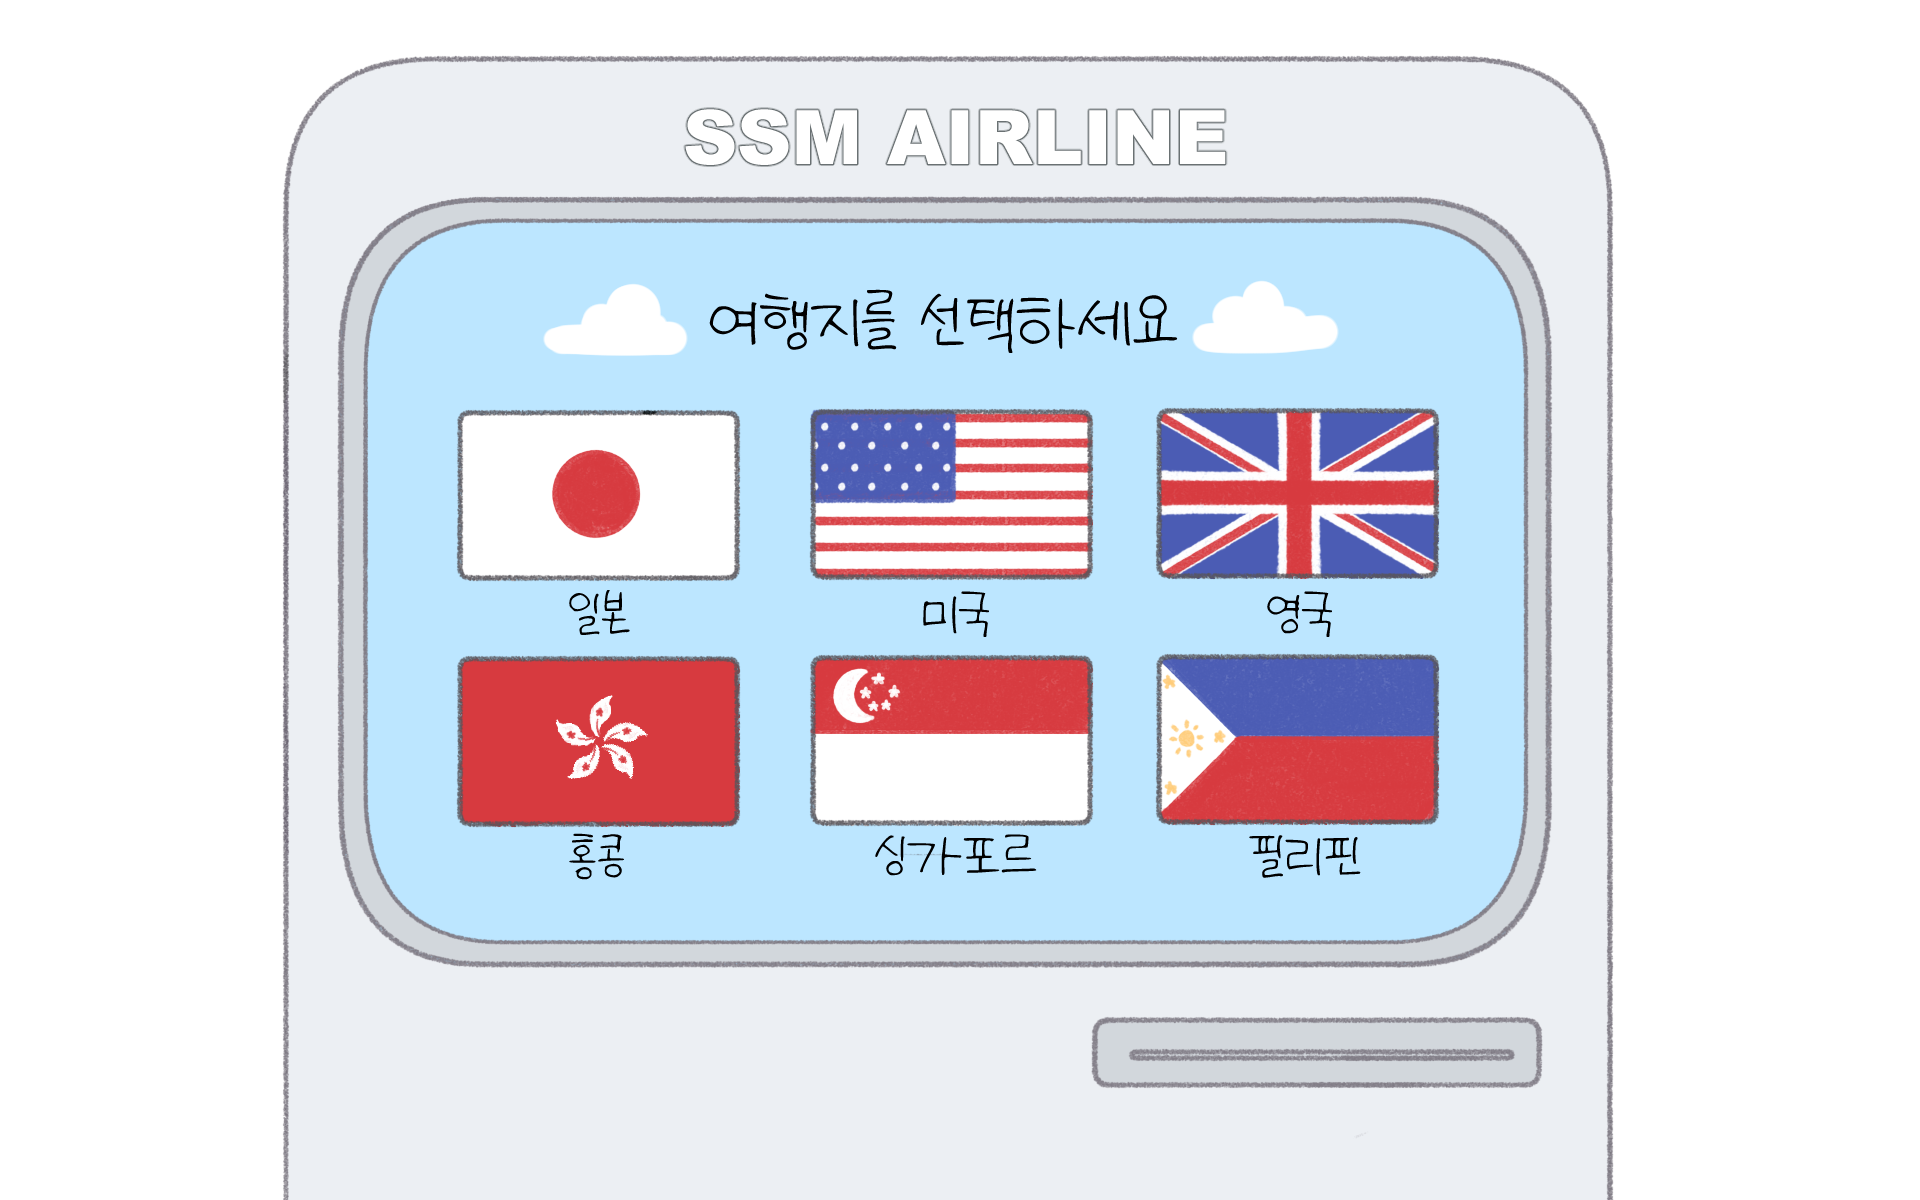
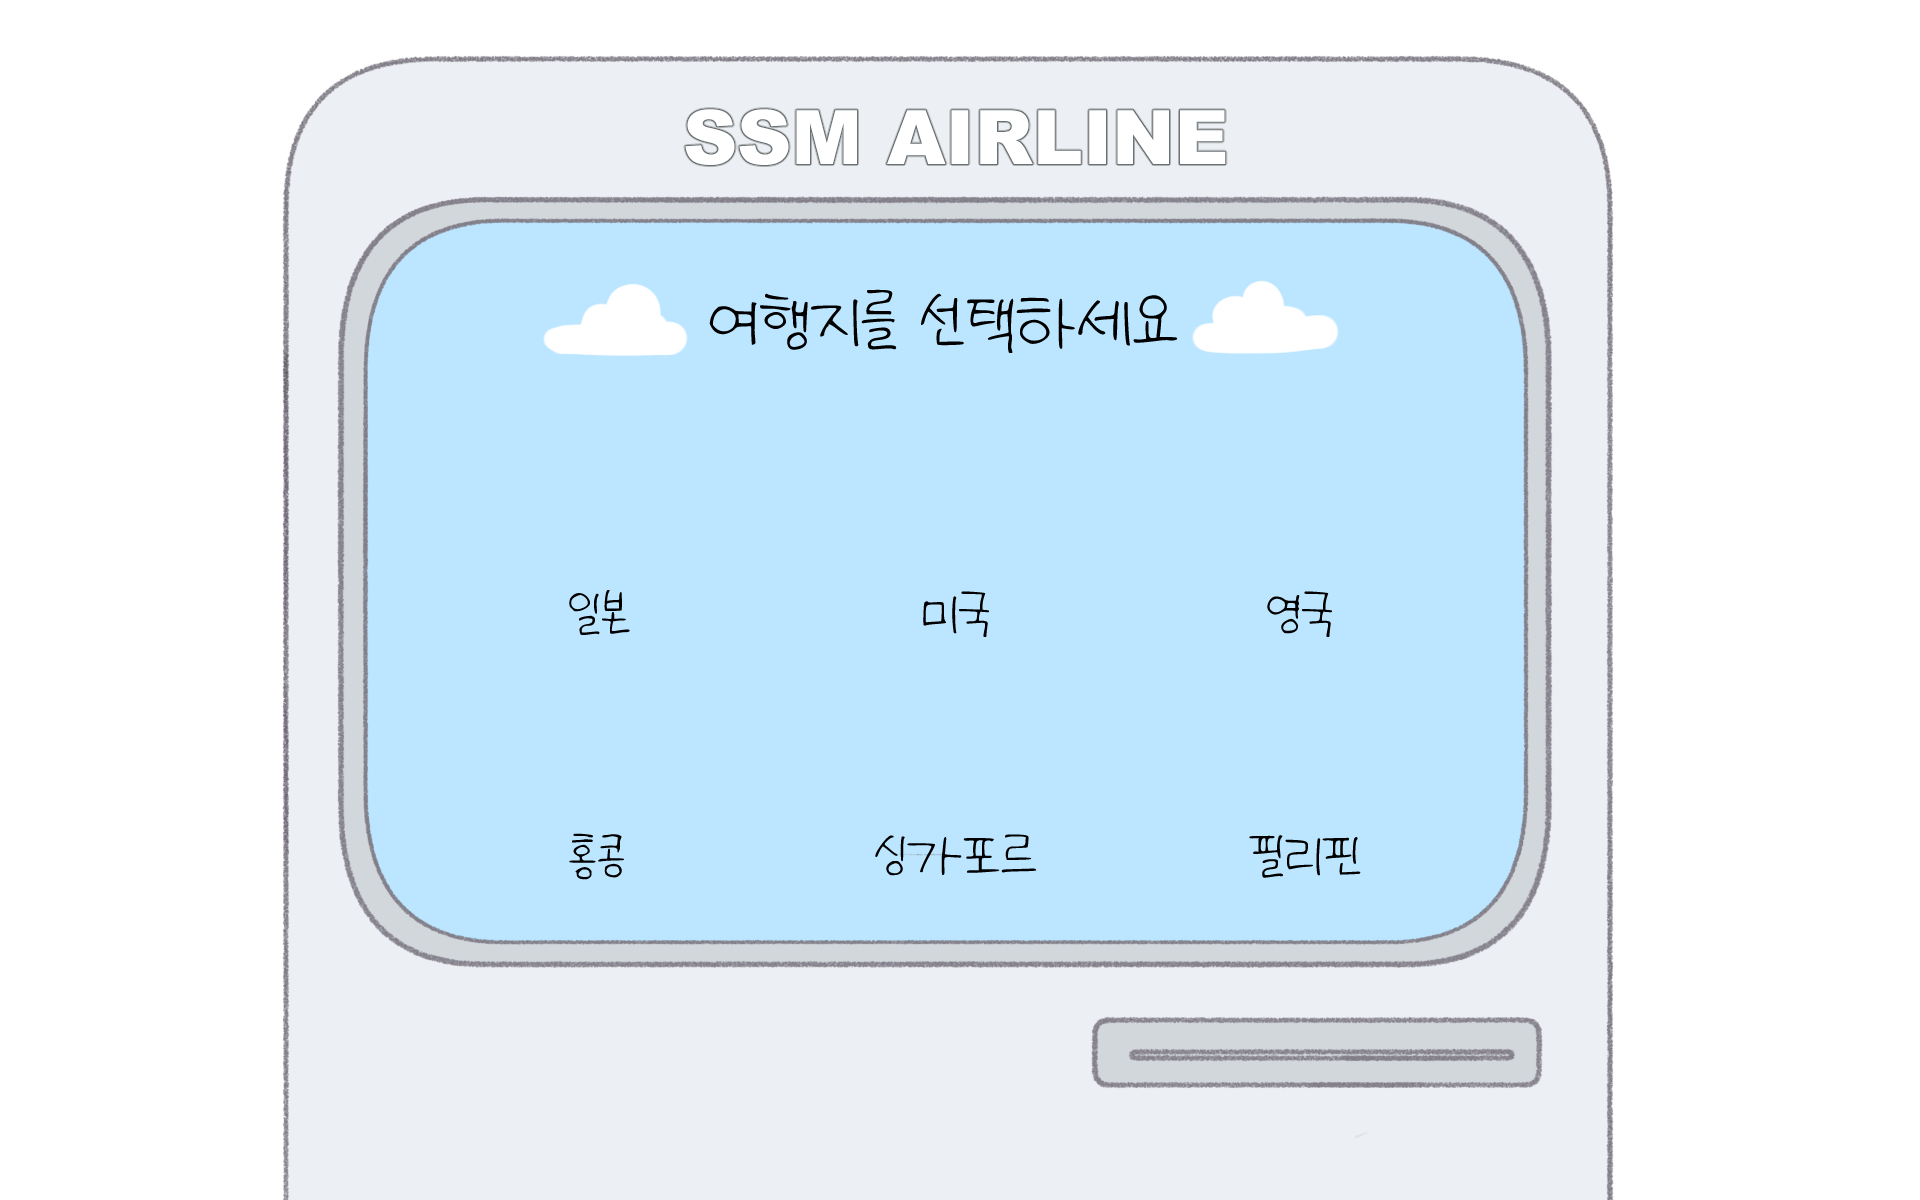
포스기계 화면 수정

Changed region(s): [[0.2188, 0.5242, 0.75, 0.7092], [0.2188, 0.3392, 0.75, 0.4933]]

diff --git a/Pos.html b/Pos.html
@@ -8,43 +8,39 @@
             .pos {
                 text-align: center;
                 position: absolute;
-                left : 550px;
-                background-image: url('picture/pos.jpg');
+                left : 400px;
+                background-image: url('picture/ssm.png');
                 background-repeat: no-repeat;
                 background-position: center;
-                background-size: 550px;
-                width: 480px;
+                background-size: 1050px;
+                width: 780px;
                 height: 730px;
             }
 
-            .font { color: black; position: absolute;}
-            
-            .btn {
-                position:absolute; 
-                border:2px solid black;
-                background-color:transparent;
-                font-size: 20px;
-                border-radius: 3px;
-                color:black;
+            input.loc1 {
+                position: relative;
+                width: 180px;
+                height: 110px;
+                top: 245px;
             }
             
-            .btn:hover {
-                color : white;
-                background-color: skyblue;
+            input.loc2 {
+                position: relative;
+                width: 170px;
+                height: 100px;
             }
+              
         </style>
 
     </head>
-    <body style="background-color:black; overflow-x: hidden; overflow-y: hidden;">
+    <body>
             <div class="pos">
-                <h1 class="font" style="left: 170px; top:88px">SSM항공사</h2>
-                <h3 class="font" style="left: 145px; top: 180px">여행지를 선택해주세요.</h3>
-                <button class="btn" onclick="location.href='Loading-J.html'" style="top: 280px; left: 110px;">일본</button >
-                <button class="btn" onclick="location.href='Loading-H.html'" style="top: 280px; left: 220px;">홍콩</button >
-                <button class="btn" onclick="location.href='Loading-p.html'" style="top: 280px; left: 320px;">필리핀</button >
-                <button class="btn" onclick="location.href='Loading-S.html'" style="top: 340px; left: 100px;">싱가포르</button >
-                <button class="btn" onclick="location.href='Loading-UK.html'" style="top: 340px; left: 220px;">영국</button >
-                <button class="btn" onclick="location.href='Loading-U.html'" style="top: 340px; left: 330px;">미국</button >
+                <input type="image" class="loc1" src="picture/japan.png" onclick="location.href='Loading-J.html'" style="left: 75px;">
+                <input type="image" class="loc1" src="picture/usa.png" onclick="location.href='Loading-U.html'" style="left: 85px;">
+                <input type="image" class="loc1" src="picture/uk.png" onclick="location.href='Loading-UK.html'"  style="left: 90px;">
+                <input type="image" class="loc2" src="picture/hongkong.png" onclick="location.href='Loading-H.html'" style="right: 470px; top: 375px;">
+                <input type="image" class="loc2" src="picture/singapore.png" onclick="location.href='Loading-S.html'" style="left: 85px; top: 275px;">
+                <input type="image" class="loc2" src="picture/pilipinas.png" onclick="location.href='Loading-P.html'" style="left: 100px; top: 275px;"> 
             </div>
     </body>
 </html>
